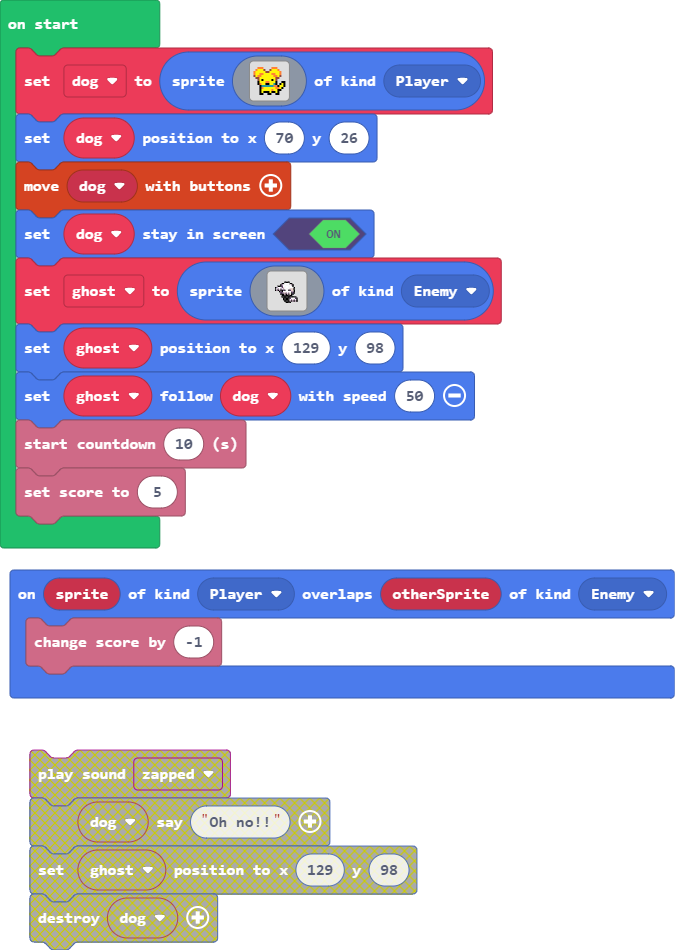
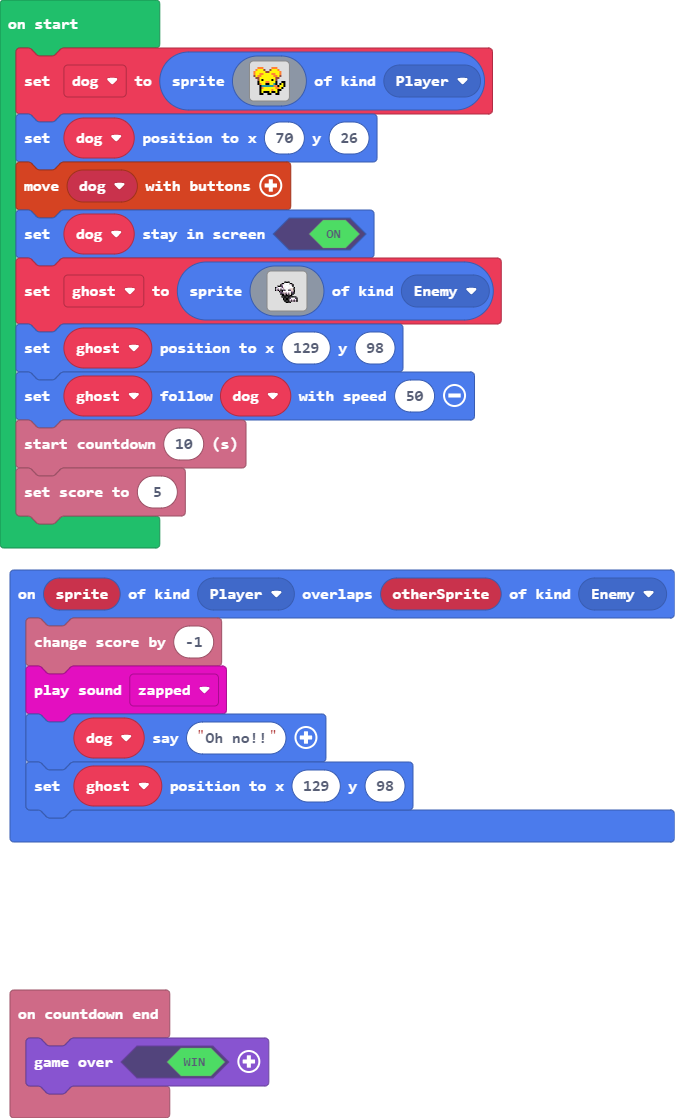
explore 2 activity 3.

diff --git a/main.ts b/main.ts
@@ -1,7 +1,15 @@
+info.onCountdownEnd(function () {
+    game.over(true)
+})
 sprites.onOverlap(SpriteKind.Player, SpriteKind.Enemy, function (sprite, otherSprite) {
     info.changeScoreBy(-1)
+    music.zapped.play()
+    dog.say("Oh no!!")
+    ghost.setPosition(129, 98)
 })
-let dog = sprites.create(img`
+let ghost: Sprite = null
+let dog: Sprite = null
+dog = sprites.create(img`
     . . 4 4 4 . . . . 4 4 4 . . . . 
     . 4 5 5 5 e . . e 5 5 5 4 . . . 
     4 5 5 5 5 5 e e 5 5 5 5 5 4 . . 
@@ -20,7 +28,7 @@ let dog = sprites.create(img`
 dog.setPosition(70, 26)
 controller.moveSprite(dog)
 dog.setStayInScreen(true)
-let ghost = sprites.create(img`
+ghost = sprites.create(img`
     ........................
     ........................
     ........................
